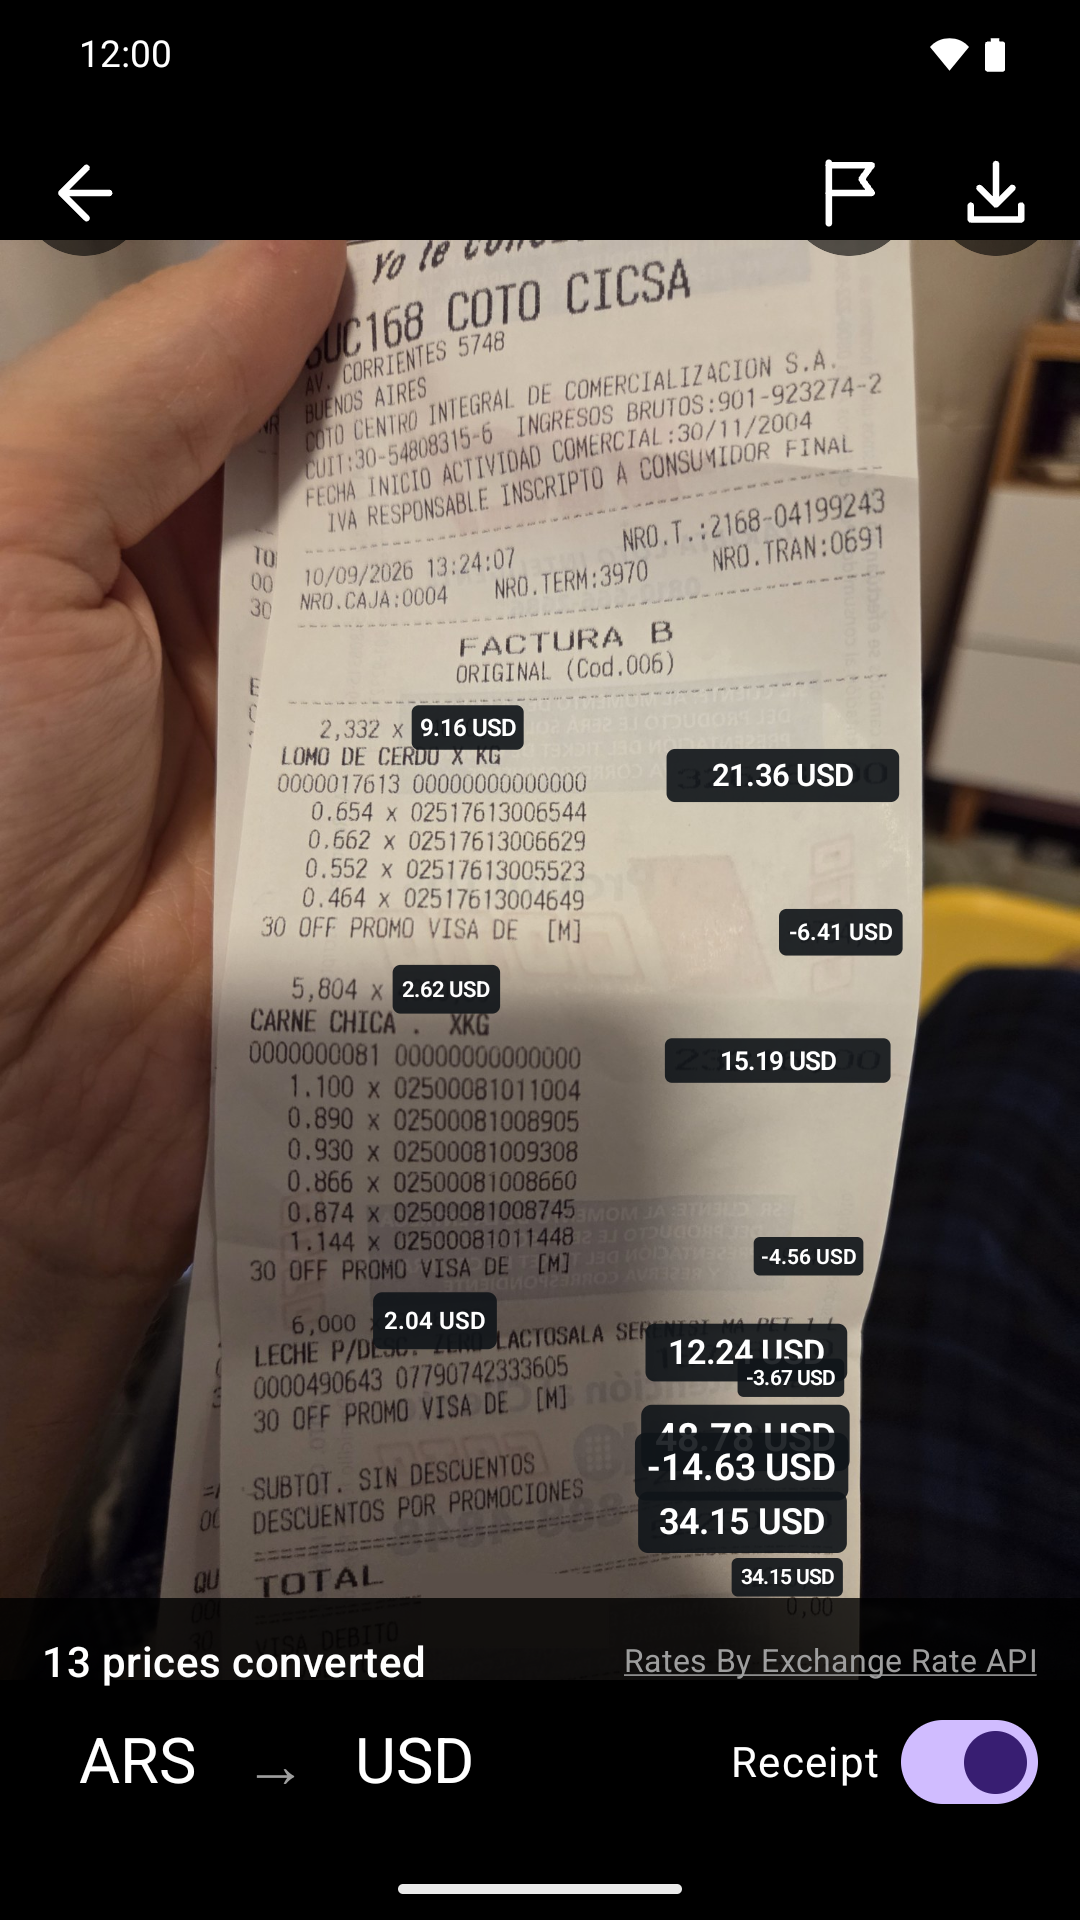
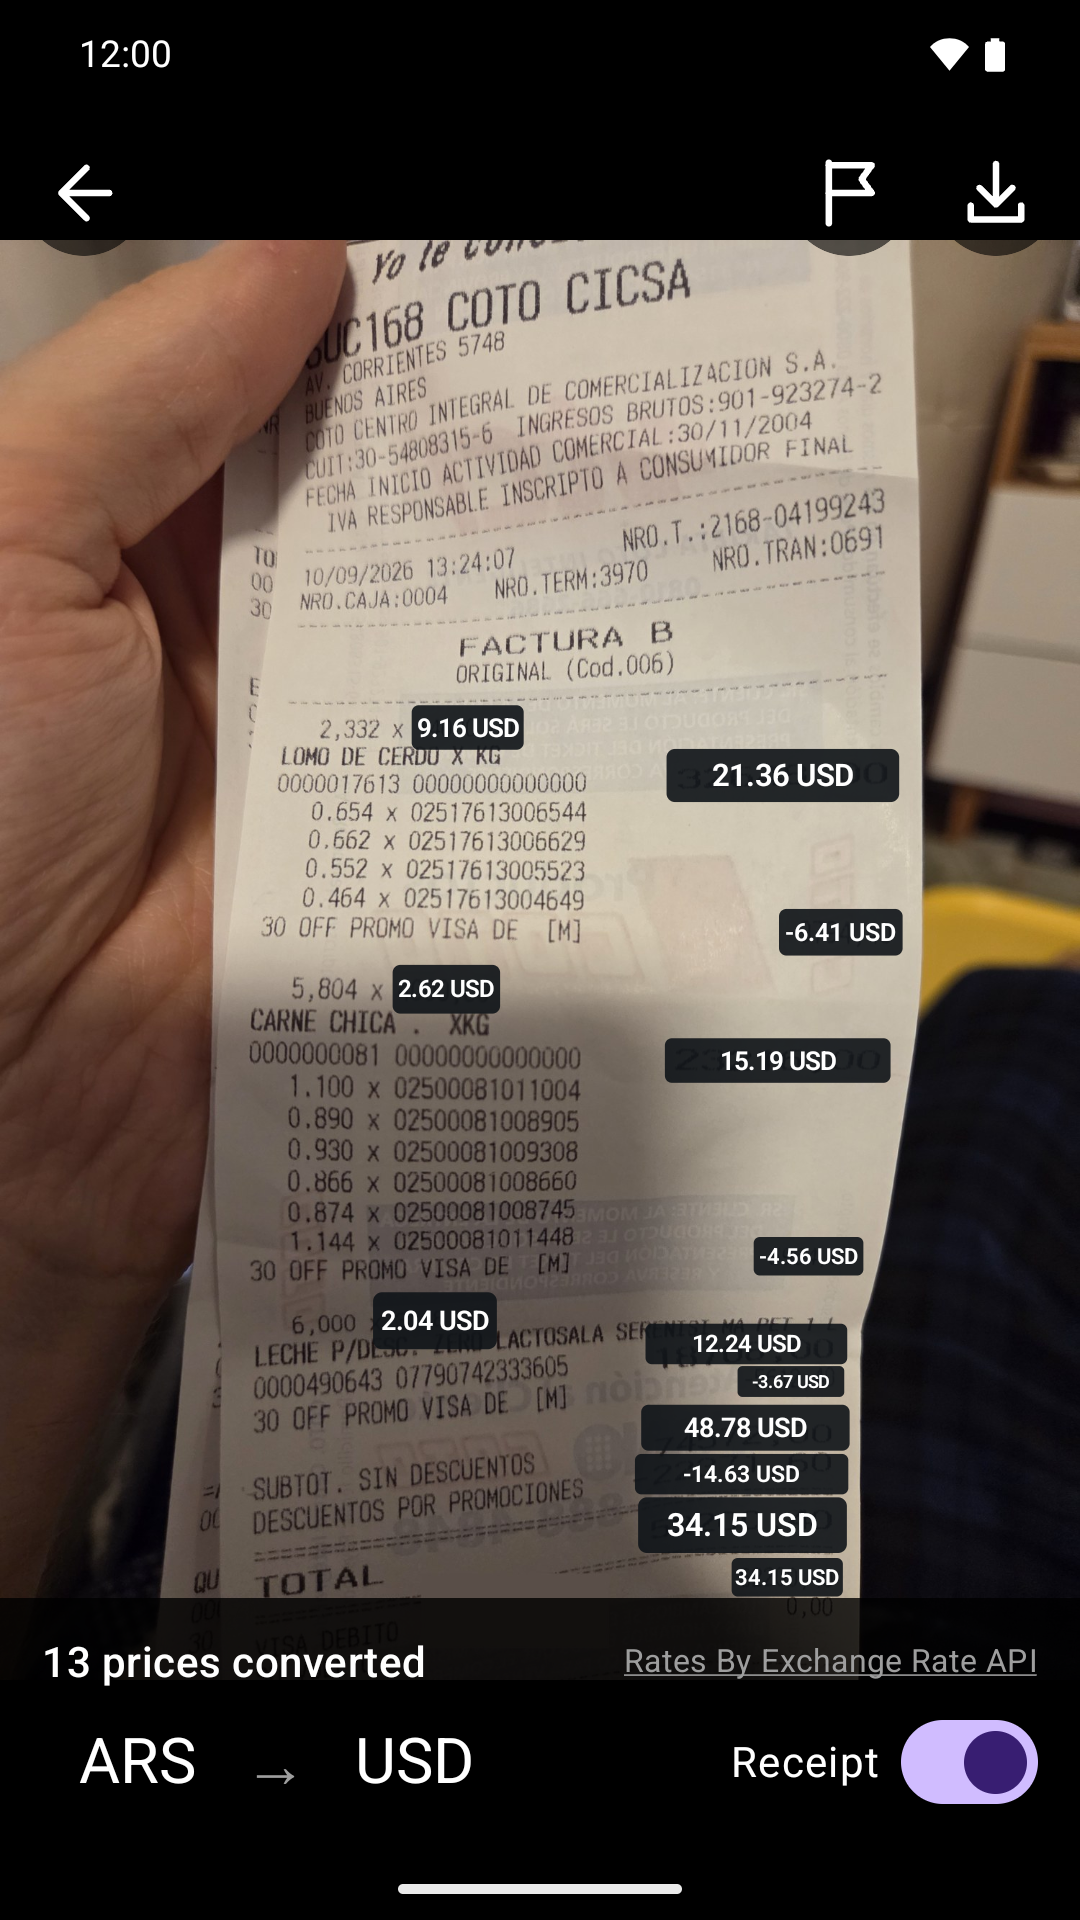
Retake the receipt screenshot with its labels apart
Taken from 0.7.4, where neighbouring labels no longer cover each other; PLAY.md
drops the note that apologised for the overlap.

diff --git a/PLAY.md b/PLAY.md
@@ -383,7 +383,8 @@ All in [`docs/play/`](docs/play), ready to upload.
   name, a one-line promise and the three ways in, on the icon's blues.
 - Both are rendered by [`tools/play-graphics.sh`](tools/play-graphics.sh) from
   headless Chrome; run it again after changing either.
-- **Phone screenshots** — 1080×1920, 9:16, from the 0.7.3 release build on an emulator
+- **Phone screenshots** — 1080×1920, 9:16, from the release build (0.7.3; the
+  receipt 0.7.4) on an emulator
   whose display was set to that size, with the status bar in demo mode (12:00,
   full battery, Wi-Fi, no notifications). Prices in ARS, converted to USD. In
   the order to upload:
@@ -392,8 +393,7 @@ All in [`docs/play/`](docs/play), ready to upload.
   2. [`screenshot-2-receipt.png`](docs/play/screenshot-2-receipt.png) — a
      supermarket receipt in receipt mode, thirteen amounts and the discounts
      with their minus. The card's last digits were blanked before it ever
-     reached the repository. Near the subtotal the labels of two neighbouring
-     lines overlap: that is how the app shows it today.
+     reached the repository.
   3. [`screenshot-3-calculator.png`](docs/play/screenshot-3-calculator.png) —
      the calculator in the middle of 5,600 × 2.
   4. [`screenshot-4-home.png`](docs/play/screenshot-4-home.png) — the home
